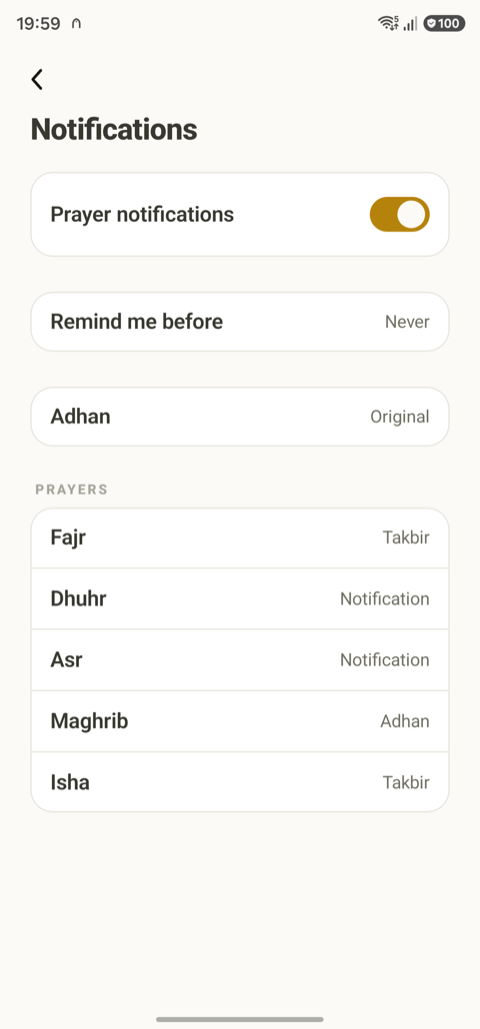
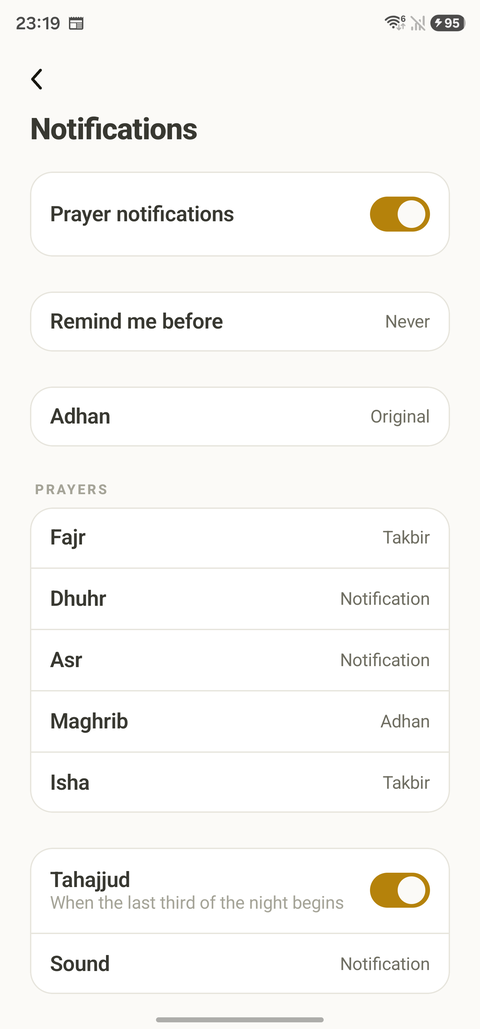
store: the framed screenshots live in the repo, and the Notifications shot shows Tahajjud
docs/store/screenshots holds both stores' sets (105 files, lossless). assemble.sh writes there
and both capture scripts take ONLY="2-notifications" to re-shoot one screen, so a feature that
changes a screen changes its store shot in the same piece of work and the commit's file list
is the upload list. This time: 2-notifications in seven languages on the S23 and the simulator.

Play release notes for build 29 in seven languages. The site and README mention Tahajjud in a
clause and the lit search words; Support gains an entry for a phone on silent.

diff --git a/site/pages/bn/support.html b/site/pages/bn/support.html
@@ -14,6 +14,9 @@
   <h2>কোনো ওয়াক্তের সময় ভুল মনে হচ্ছে</h2>
   <p>নামাজের সময় হিসাবের পদ্ধতির উপর নির্ভর করে, আর সমাজভেদে তা আলাদা। সেটিংস › নামাজের সময় থেকে আপনার মসজিদ যে পদ্ধতি অনুসরণ করে সেটি বেছে নিতে পারেন, আসরের জন্য হানাফি বা সাধারণ মত ঠিক করতে পারেন, আর যেকোনো ওয়াক্ত কয়েক মিনিট সরাতে পারেন। হিজরি তারিখ একটি গাণিতিক পঞ্জিকা, তা উম্মুল কুরা বা স্থানীয় চাঁদ দেখা থেকে এক দিন আলাদা হতে পারে; একই পর্দায় তার জন্য এক দিনের সমন্বয় রাখা আছে।</p>
 
+  <h2>নোটিফিকেশনে শব্দ হচ্ছে না</h2>
+  <p>নামাজের নোটিফিকেশন এবং সেটিংস › নোটিফিকেশন-এর প্রিভিউ আপনার ফোনের নোটিফিকেশন ভলিউমে বাজে, তাই ফোন নীরব, ভাইব্রেট বা “বিরক্ত করবেন না” মোডে থাকলে কোনো শব্দ হয় না। অ্যান্ড্রয়েডে এমন হলে শব্দ বাছাইয়ের পর্দাতেই তা জানিয়ে দেওয়া হয়। রিংগার চালু করুন বা নোটিফিকেশনের ভলিউম বাড়ান, তারপর প্রিভিউটি আবার শুনুন।</p>
+
   <h2>তিলাওয়াত ডাউনলোড</h2>
   <p>তিলাওয়াত সাধারণত ওয়াই-ফাইতে ডাউনলোড হয়; সেটিংস › কুরআন › তিলাওয়াত-এ মোবাইল ডেটার জন্য একটি সুইচ আছে, আর কোন কারির কী জমা আছে তা মুছে ফেলার ব্যবস্থাসহ দেখানো হয়। মাঝপথে থেমে যাওয়া ডাউনলোড যেখানে থেমেছিল সেখান থেকেই আবার শুরু হয়।</p>
 

diff --git a/site/pages/ur/support.html b/site/pages/ur/support.html
@@ -14,6 +14,9 @@
   <h2>کوئی وقت درست نہیں لگ رہا</h2>
   <p>نماز کے اوقات حساب کے طریقے پر منحصر ہیں، اور ہر علاقے کا طریقہ ایک نہیں ہوتا۔ ترتیبات › نماز کے اوقات میں آپ وہی طریقہ چن سکتے ہیں جس پر آپ کی مسجد عمل کرتی ہے، عصر کے لیے حنفی یا جمہور کا انتخاب کر سکتے ہیں، اور کسی بھی نماز کو چند منٹ آگے پیچھے کر سکتے ہیں۔ ہجری تاریخ ایک حسابی تقویم ہے اور اس میں امّ القریٰ یا مقامی رؤیتِ ہلال سے ایک دن کا فرق ہو سکتا ہے؛ اسی اسکرین پر اس کے لیے ایک دن کی ترمیم موجود ہے۔</p>
 
+  <h2>اطلاع کی آواز نہیں آ رہی</h2>
+  <p>نماز کی اطلاعات، اور ترتیبات › اطلاعات میں آواز کے نمونے، آپ کے فون کے اطلاعاتی والیوم پر چلتے ہیں، اس لیے فون خاموش، وائبریٹ یا ”ڈسٹرب نہ کریں“ موڈ پر ہو تو کوئی آواز نہیں آتی۔ اینڈرائیڈ پر ایسی صورت میں آواز چننے کی اسکرین خود یہ بتا دیتی ہے۔ گھنٹی آن کریں یا اطلاعات کی آواز بڑھائیں، پھر نمونہ دوبارہ سنیں۔</p>
+
   <h2>تلاوتوں کا ڈاؤن لوڈ</h2>
   <p>طے شدہ طور پر تلاوتیں صرف وائی فائی پر ڈاؤن لوڈ ہوتی ہیں؛ ترتیبات › قرآن › تلاوت میں موبائل ڈیٹا کا بٹن موجود ہے، اور یہ بھی دکھایا جاتا ہے کہ ہر قاری کی کیا کچھ فون پر محفوظ ہے، اور اسے حذف کرنے کا راستہ بھی۔ درمیان میں رک جانے والا ڈاؤن لوڈ وہیں سے دوبارہ چل پڑتا ہے جہاں رکا تھا۔</p>
 

diff --git a/site/pages/bn/home.html b/site/pages/bn/home.html
@@ -42,7 +42,7 @@
         <article class="card">
           <svg class="glyph" viewBox="0 0 16 16" fill="none" aria-hidden="true"><path d="M4.9 10V7.3a3.1 3.1 0 0 1 6.2 0V10l1 1.3H3.9L4.9 10z" stroke="currentColor" stroke-width="1.4" stroke-linecap="round" stroke-linejoin="round"/><circle cx="8" cy="12.7" r="0.85" fill="#E3A21C"/></svg>
           <h3>ঠিক ওয়াক্তে আযান</h3>
-          <p>প্রতি ওয়াক্তে একটি নোটিফিকেশন — স্পষ্ট একটি সুর, তাকবীর, কিংবা কয়েকটি কণ্ঠের মধ্যে বেছে নেওয়া আযানের শুরুটুকু। চাইলে কয়েক মিনিট আগে একটি মনে করিয়ে দেওয়া।</p>
+          <p>প্রতি ওয়াক্তে একটি নোটিফিকেশন — স্পষ্ট একটি সুর, তাকবীর, কিংবা কয়েকটি কণ্ঠের মধ্যে বেছে নেওয়া আযানের শুরুটুকু। চাইলে কয়েক মিনিট আগে একটি মনে করিয়ে দেওয়া, আর তাহাজ্জুদের জন্য একটি নোটিফিকেশন।</p>
         </article>
         <article class="card">
           <svg class="glyph" viewBox="0 0 16 16" fill="none" aria-hidden="true"><circle cx="8" cy="8" r="6" stroke="currentColor" stroke-width="1.4"/><path d="M8 8 10.6 4.6" stroke="currentColor" stroke-width="1.4" stroke-linecap="round"/><circle cx="8" cy="8" r="1" fill="#E3A21C"/></svg>

diff --git a/site/pages/ar/support.html b/site/pages/ar/support.html
@@ -14,6 +14,9 @@
   <h2>وقت صلاة يبدو خاطئًا</h2>
   <p>تعتمد مواقيت الصلاة على طريقة الحساب، والمجتمعات تختلف فيها. من الإعدادات › مواقيت الصلاة تختار الطريقة التي يتبعها مسجدك، وتختار العصر على مذهب الجمهور أو الحنفي، وتعدّل أي صلاة بدقائق. والتاريخ الهجري تقويم حسابي قد يختلف بيوم عن تقويم أم القرى أو عن رؤية الهلال في بلدك؛ وفي الشاشة نفسها تعديل بيوم لذلك.</p>
 
+  <h2>الإشعار بلا صوت</h2>
+  <p>إشعارات الصلاة، ومعاينة الأصوات في الإعدادات › الإشعارات، تُسمع بمستوى صوت الإشعارات في هاتفك، فلا يصدر لها صوت والهاتف على الوضع الصامت أو الاهتزاز أو «عدم الإزعاج». وعلى أندرويد تنبّهك شاشة اختيار الصوت إلى ذلك. شغّل الرنين أو ارفع صوت الإشعارات، ثم جرّب المعاينة مرة أخرى.</p>
+
   <h2>تنزيل التلاوات</h2>
   <p>تُنزَّل التلاوات عبر Wi-Fi افتراضيًا؛ وفي الإعدادات › القرآن › التلاوة مفتاح لبيانات الجوال، وعرض لما هو مخزّن لكل قارئ مع إمكانية حذفه. والتنزيل الذي يتوقف في منتصفه يستأنف من حيث توقف.</p>
 

diff --git a/site/pages/fr/support.html b/site/pages/fr/support.html
@@ -14,6 +14,9 @@
   <h2>Un horaire de prière semble faux</h2>
   <p>Les horaires de prière dépendent de la méthode de calcul, et les communautés diffèrent. Paramètres › Horaires de prière vous laisse choisir la méthode que suit votre mosquée, opter pour l’Asr hanafite ou majoritaire, et ajuster chaque prière de quelques minutes. La date hégirienne suit un calendrier arithmétique et peut différer d’un jour de celui d’Oumm al-Qoura ou de l’observation locale du croissant ; le même écran propose un ajustement d’un jour pour cela.</p>
 
+  <h2>Une notification sans son</h2>
+  <p>Les notifications de prière, comme les aperçus de Paramètres › Notifications, suivent le volume des notifications de votre téléphone : elles restent muettes en mode silencieux, en vibreur ou en mode « Ne pas déranger ». Sur Android, l’écran de choix du son le signale quand c’est le cas. Réactivez la sonnerie ou montez le volume des notifications, puis relancez l’aperçu.</p>
+
   <h2>Téléchargement des récitations</h2>
   <p>Les récitations se téléchargent via le Wi-Fi par défaut ; Paramètres › Coran › Récitation propose une option pour les données mobiles et montre ce qui est enregistré, récitateur par récitateur, avec de quoi le supprimer. Un téléchargement interrompu en chemin reprend là où il s’était arrêté.</p>
 

diff --git a/site/pages/ur/home.html b/site/pages/ur/home.html
@@ -42,7 +42,7 @@
         <article class="card">
           <svg class="glyph" viewBox="0 0 16 16" fill="none" aria-hidden="true"><path d="M4.9 10V7.3a3.1 3.1 0 0 1 6.2 0V10l1 1.3H3.9L4.9 10z" stroke="currentColor" stroke-width="1.4" stroke-linecap="round" stroke-linejoin="round"/><circle cx="8" cy="12.7" r="0.85" fill="#E3A21C"/></svg>
           <h3>عین وقت پر اذان</h3>
-          <p>ہر نماز کے لیے ایک اطلاع — ایک صاف ٹون، تکبیر، یا اذان کا آغاز، کئی آوازوں کے انتخاب کے ساتھ۔ اور چاہیں تو چند منٹ پہلے ایک یاد دہانی۔</p>
+          <p>ہر نماز کے لیے ایک اطلاع — ایک صاف ٹون، تکبیر، یا اذان کا آغاز، کئی آوازوں کے انتخاب کے ساتھ۔ اور چاہیں تو چند منٹ پہلے ایک یاد دہانی، اور تہجد کے لیے ایک اطلاع۔</p>
         </article>
         <article class="card">
           <svg class="glyph" viewBox="0 0 16 16" fill="none" aria-hidden="true"><circle cx="8" cy="8" r="6" stroke="currentColor" stroke-width="1.4"/><path d="M8 8 10.6 4.6" stroke="currentColor" stroke-width="1.4" stroke-linecap="round"/><circle cx="8" cy="8" r="1" fill="#E3A21C"/></svg>

diff --git a/site/pages/tr/support.html b/site/pages/tr/support.html
@@ -14,6 +14,9 @@
   <h2>Bir namaz vakti yanlış görünüyor</h2>
   <p>Namaz vakitleri hesaplama yöntemine bağlıdır ve yöntem cemaatten cemaate değişir. Ayarlar › Namaz vakitleri altından caminizin uyduğu yöntemi seçebilir, ikindi için Hanefi ya da Standart seçeneğini işaretleyebilir ve her vakti birkaç dakika kaydırabilirsiniz. Hicri tarih, hesaba dayanan bir takvimdir; Ümmü'l-Kura takviminden ya da yerel hilal gözleminden bir gün farklı olabilir. Aynı ekranda bunun için bir günlük düzeltme vardır.</p>
 
+  <h2>Bildirimden ses gelmiyor</h2>
+  <p>Namaz bildirimleri ve Ayarlar › Bildirimler altındaki önizlemeler telefonunuzun bildirim ses düzeyinde çalar; telefon sessizde, titreşimde ya da “Rahatsız etmeyin” modundayken ses çıkarmaz. Android’de ses seçim ekranı böyle bir durumda bunu söyler. Zil sesini açın ya da bildirim sesini yükseltin, sonra önizlemeyi yeniden deneyin.</p>
+
   <h2>Tilavet indirmeleri</h2>
   <p>Tilavetler varsayılan olarak Wi-Fi üzerinden iner; Ayarlar › Kur'an › Tilavet altında mobil veri için bir anahtar bulunur, ayrıca her kari için telefonda ne olduğunu gösterir ve silme imkânı verir. Yarıda kalan bir indirme, kaldığı yerden devam eder.</p>
 

diff --git a/site/pages/id/support.html b/site/pages/id/support.html
@@ -14,6 +14,9 @@
   <h2>Ada waktu salat yang terlihat keliru</h2>
   <p>Waktu salat bergantung pada metode perhitungan, dan tiap kalangan berbeda. Di Pengaturan › Waktu salat, Anda bisa memilih metode yang diikuti masjid Anda, memilih Hanafi atau Standar untuk Ashar, dan menggeser salat mana pun beberapa menit. Tanggal Hijriah memakai kalender hisab dan bisa berbeda sehari dari Ummul Qura atau dari rukyat setempat; di layar yang sama ada penyesuaian satu hari untuk itu.</p>
 
+  <h2>Notifikasi tidak berbunyi</h2>
+  <p>Notifikasi salat, begitu juga pratinjau di Pengaturan › Notifikasi, berbunyi mengikuti volume notifikasi ponsel Anda, jadi tidak terdengar saat ponsel dalam mode senyap, getar, atau “Jangan Ganggu”. Di Android, layar pemilihan suara akan memberi tahu bila itu penyebabnya. Aktifkan dering atau naikkan volume notifikasi, lalu coba pratinjaunya lagi.</p>
+
   <h2>Unduhan tilawah</h2>
   <p>Tilawah diunduh lewat Wi-Fi secara bawaan; Pengaturan › Al-Qur'an › Tilawah punya sakelar untuk data seluler dan menampilkan apa saja yang tersimpan untuk tiap qari, lengkap dengan cara menghapusnya. Unduhan yang berhenti di tengah jalan dilanjutkan dari tempatnya berhenti.</p>
 

diff --git a/site/pages/ar/home.html b/site/pages/ar/home.html
@@ -39,7 +39,7 @@
         <article class="card">
           <svg class="glyph" viewBox="0 0 16 16" fill="none" aria-hidden="true"><path d="M4.9 10V7.3a3.1 3.1 0 0 1 6.2 0V10l1 1.3H3.9L4.9 10z" stroke="currentColor" stroke-width="1.4" stroke-linecap="round" stroke-linejoin="round"/><circle cx="8" cy="12.7" r="0.85" fill="#E3A21C"/></svg>
           <h3>الأذان في وقته</h3>
-          <p>إشعار لكل صلاة، بنغمة واضحة أو تكبير أو مطلع الأذان بأصوات تختار من بينها. وتذكير اختياري قبل الوقت بدقائق.</p>
+          <p>إشعار لكل صلاة، بنغمة واضحة أو تكبير أو مطلع الأذان بأصوات تختار من بينها. وتذكير اختياري قبل الوقت بدقائق، وإشعار اختياري للتهجد.</p>
         </article>
         <article class="card">
           <svg class="glyph" viewBox="0 0 16 16" fill="none" aria-hidden="true"><circle cx="8" cy="8" r="6" stroke="currentColor" stroke-width="1.4"/><path d="M8 8 10.6 4.6" stroke="currentColor" stroke-width="1.4" stroke-linecap="round"/><circle cx="8" cy="8" r="1" fill="#E3A21C"/></svg>

diff --git a/site/pages/fr/home.html b/site/pages/fr/home.html
@@ -42,7 +42,7 @@
         <article class="card">
           <svg class="glyph" viewBox="0 0 16 16" fill="none" aria-hidden="true"><path d="M4.9 10V7.3a3.1 3.1 0 0 1 6.2 0V10l1 1.3H3.9L4.9 10z" stroke="currentColor" stroke-width="1.4" stroke-linecap="round" stroke-linejoin="round"/><circle cx="8" cy="12.7" r="0.85" fill="#E3A21C"/></svg>
           <h3>L’adhan à l’heure exacte</h3>
-          <p>Une notification pour chaque prière, avec une tonalité claire, un takbir ou le début de l’adhan, avec plusieurs voix au choix. Un rappel facultatif quelques minutes avant.</p>
+          <p>Une notification pour chaque prière, avec une tonalité claire, un takbir ou le début de l’adhan, avec plusieurs voix au choix. Un rappel facultatif quelques minutes avant, et une notification facultative pour le Tahajjud.</p>
         </article>
         <article class="card">
           <svg class="glyph" viewBox="0 0 16 16" fill="none" aria-hidden="true"><circle cx="8" cy="8" r="6" stroke="currentColor" stroke-width="1.4"/><path d="M8 8 10.6 4.6" stroke="currentColor" stroke-width="1.4" stroke-linecap="round"/><circle cx="8" cy="8" r="1" fill="#E3A21C"/></svg>

diff --git a/site/pages/id/home.html b/site/pages/id/home.html
@@ -42,7 +42,7 @@
         <article class="card">
           <svg class="glyph" viewBox="0 0 16 16" fill="none" aria-hidden="true"><path d="M4.9 10V7.3a3.1 3.1 0 0 1 6.2 0V10l1 1.3H3.9L4.9 10z" stroke="currentColor" stroke-width="1.4" stroke-linecap="round" stroke-linejoin="round"/><circle cx="8" cy="12.7" r="0.85" fill="#E3A21C"/></svg>
           <h3>Azan tepat pada waktunya</h3>
-          <p>Notifikasi untuk setiap salat, dengan nada yang jelas, takbir, atau pembuka azan dalam beberapa pilihan suara. Ditambah pengingat beberapa menit sebelumnya, kalau Anda mau.</p>
+          <p>Notifikasi untuk setiap salat, dengan nada yang jelas, takbir, atau pembuka azan dalam beberapa pilihan suara. Ditambah pengingat beberapa menit sebelumnya dan notifikasi Tahajud, kalau Anda mau.</p>
         </article>
         <article class="card">
           <svg class="glyph" viewBox="0 0 16 16" fill="none" aria-hidden="true"><circle cx="8" cy="8" r="6" stroke="currentColor" stroke-width="1.4"/><path d="M8 8 10.6 4.6" stroke="currentColor" stroke-width="1.4" stroke-linecap="round"/><circle cx="8" cy="8" r="1" fill="#E3A21C"/></svg>

diff --git a/site/pages/tr/home.html b/site/pages/tr/home.html
@@ -42,7 +42,7 @@
         <article class="card">
           <svg class="glyph" viewBox="0 0 16 16" fill="none" aria-hidden="true"><path d="M4.9 10V7.3a3.1 3.1 0 0 1 6.2 0V10l1 1.3H3.9L4.9 10z" stroke="currentColor" stroke-width="1.4" stroke-linecap="round" stroke-linejoin="round"/><circle cx="8" cy="12.7" r="0.85" fill="#E3A21C"/></svg>
           <h3>Tam vaktinde ezan</h3>
-          <p>Her vakit için bir bildirim: net bir uyarı tonu, tekbir ya da farklı seslerden birinin okuduğu ezanın başı. İsterseniz birkaç dakika öncesinden bir hatırlatma.</p>
+          <p>Her vakit için bir bildirim: net bir uyarı tonu, tekbir ya da farklı seslerden birinin okuduğu ezanın başı. İsterseniz birkaç dakika öncesinden bir hatırlatma ve teheccüd için bir bildirim.</p>
         </article>
         <article class="card">
           <svg class="glyph" viewBox="0 0 16 16" fill="none" aria-hidden="true"><circle cx="8" cy="8" r="6" stroke="currentColor" stroke-width="1.4"/><path d="M8 8 10.6 4.6" stroke="currentColor" stroke-width="1.4" stroke-linecap="round"/><circle cx="8" cy="8" r="1" fill="#E3A21C"/></svg>
